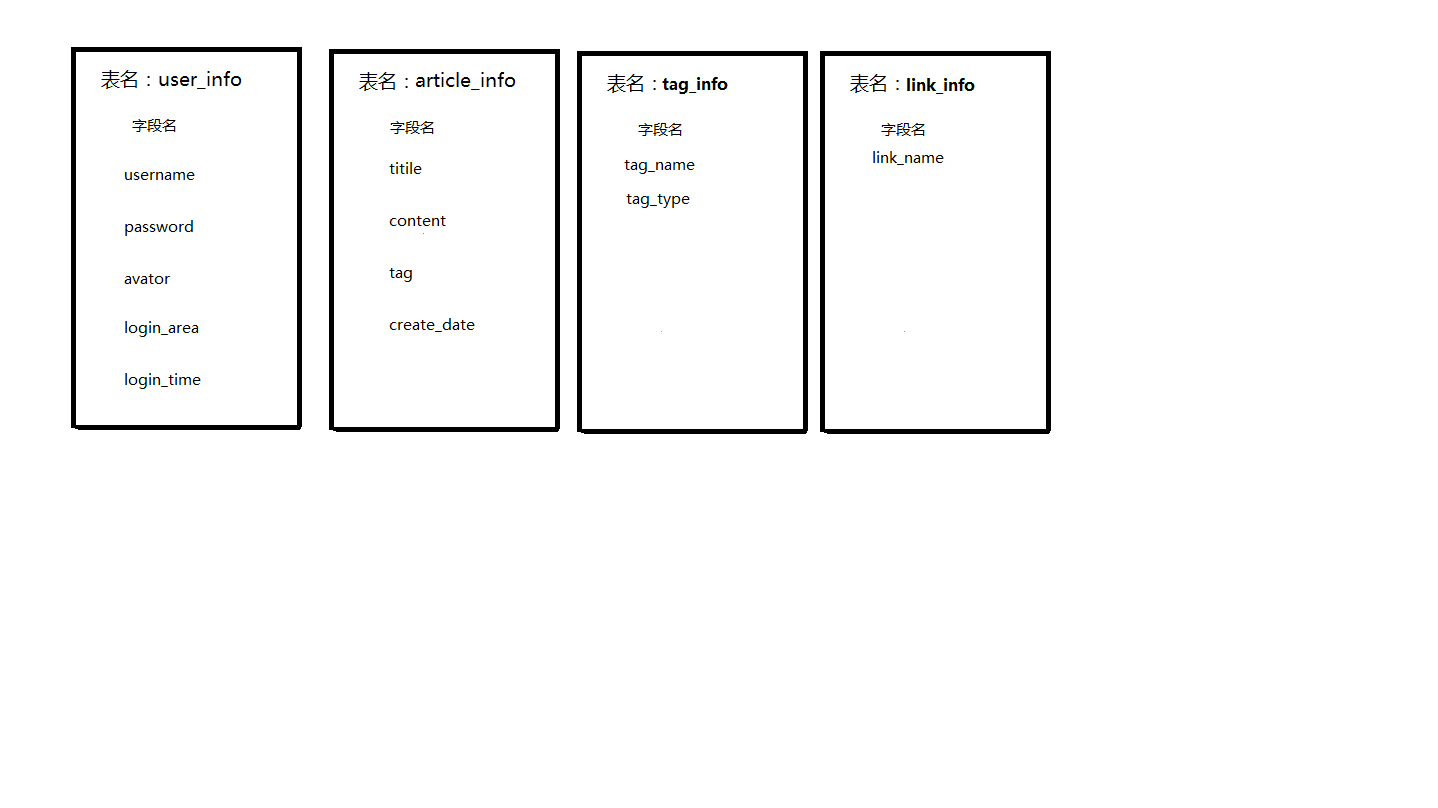
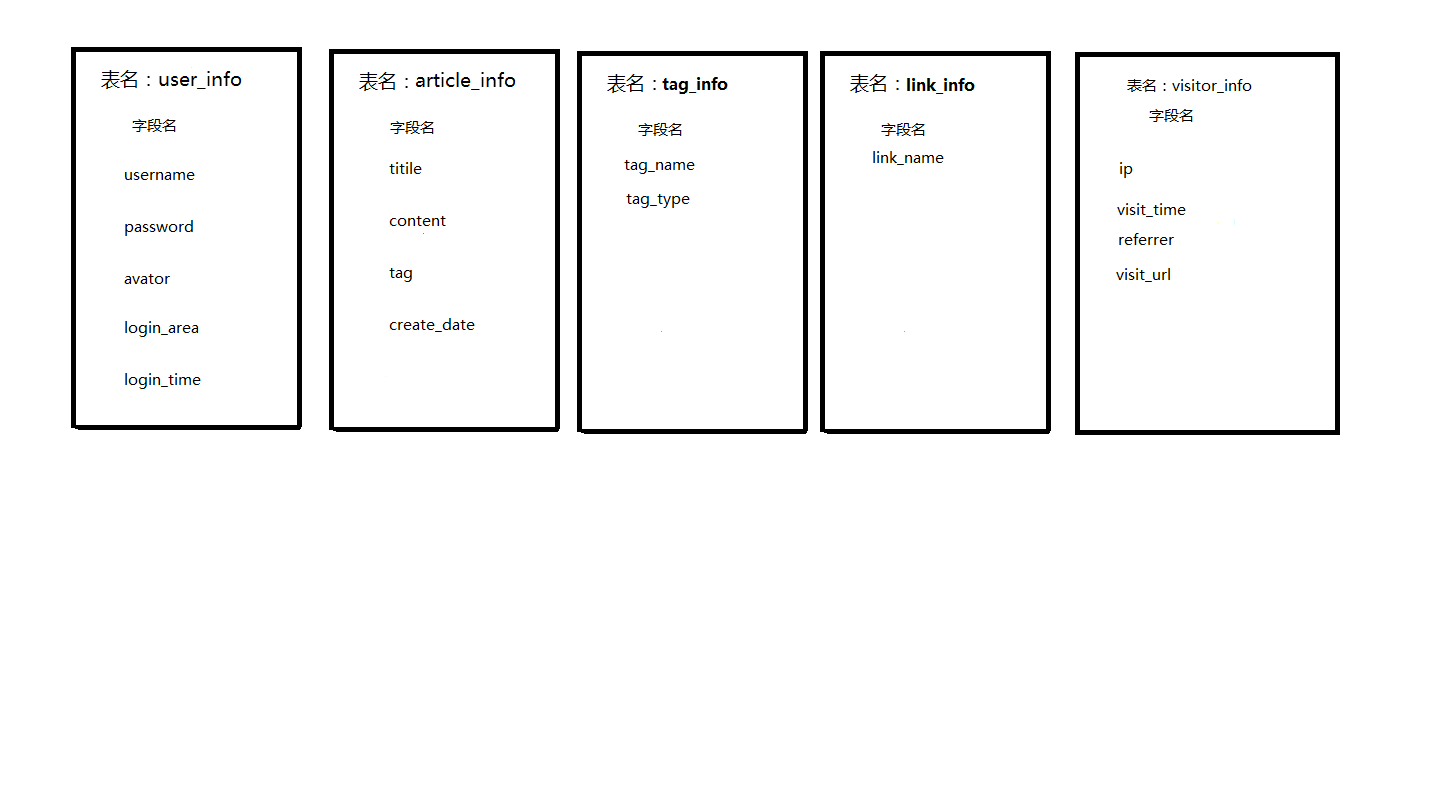
mongoose

Changed region(s): [[0.7344, 0.0619, 0.9485, 0.5569]]

diff --git a/server/index.js b/server/index.js
@@ -7,17 +7,13 @@ const session = require('koa-session');
 const app = new Koa()
 const host = process.env.HOST || '127.0.0.1'
 const port = process.env.PORT || 3000
-const admin=require('./model/admin/admin');
-const passport=require('koa-passport');
+require('./models')
+const index=require('./model/admin/index');
 //session
 app.keys = ['some secret hurr'];
 app.use(session({}, app));
 //body-parseer
 app.use(bodyParser());
-//authentication
-require('./auth')
-app.use(passport.initialize())
-app.use(passport.session())
 // Import and Set Nuxt.js options
 let config = require('../nuxt.config.js')
 config.dev = !(app.env === 'production')
@@ -31,7 +27,7 @@ async function start() {
     const builder = new Builder(nuxt)
     await builder.build()
   }
-  router.use('/admin',admin);
+  router.use('/admin/index',index);
   app.use(router.routes()).use(router.allowedMethods());
   app.use(ctx => {
     ctx.status = 200 // koa defaults to 404 when it sees that status is unset

diff --git a/server/model/admin/admin.js b/server/model/admin/admin.js
@@ -1,17 +1,3 @@
 const router=require('koa-router')()
 const db=require('../../db')
-const passport=require('koa-passport')
-/*
-* 登录
-*/
-router.post('/login',async ctx=>{
-    return passport.authenticate('local', function(err, user, info, status) {
-        if (user === false) {
-          ctx.body = { success: false,msg:info };
-        } else {
-          ctx.body = { success: true,user};
-          return ctx.login(user)
-        }
-      })(ctx)
-});
 module.exports=router.routes();

diff --git a/server/model/admin/index.js b/server/model/admin/index.js
@@ -1,1 +1,16 @@
 //首页
+const router=require('koa-router')()
+const db=require('../../db')
+/*
+*访客数据
+*/
+router.post('/visitorData',async ctx=>{
+    
+});
+/*
+* 登录
+*/
+router.post('/login',                                                                                                                                                                                     async ctx=>{
+   
+});
+module.exports=router.routes();

diff --git a/pages/front/login.vue b/pages/front/login.vue
@@ -79,7 +79,7 @@ export default {
       this.$refs[name].validate(valid => {
         if (valid) {
           this.formInline.password=md5(this.formInline.password);
-          this.$axios.post('/admin/login',this.formInline).then(res=>{
+          this.$axios.post('/admin/index/login',this.formInline).then(res=>{
            let {data}=res;
             if(data.success){
               this.$Message.success('登录成功');

diff --git a/pages/front/index.vue b/pages/front/index.vue
@@ -163,6 +163,7 @@ export default {
     }
   },
   mounted() {
+    this.getData();
     this.getVisitNumber();
     this.getArticleNumber();
   },
@@ -263,6 +264,11 @@ export default {
       }
       var myChart = this.$echarts.init(echart)
       myChart.setOption(option)
+    },
+    getData(){
+        this.$axios.post('/admin/index/visitorData').then(res=>{
+            console.log(res);
+        });
     }
   }
 }

diff --git a/server/models/user.js b/server/models/user.js
@@ -1,0 +1,22 @@
+const mongoose=require('mongoose')
+const Schema=mongoose.Schema
+let user=new Schema({
+    username:{
+        type:String
+    },
+    password:{
+        type:String
+    },
+    avator:{
+        type:String,
+        default:'avator.jpg'
+    },
+    login_area:{
+        type:String
+    },
+    login_time:{
+        type:Date,
+        default:Date.now
+    }
+})
+mongoose.model('User',user);

diff --git a/server/models/index.js b/server/models/index.js
@@ -1,0 +1,10 @@
+const mongoose=require('mongoose')
+const config=require('../config')
+require('./user')
+require('./visitor')
+mongoose.connect(`mongodb://${config.mongodb.host}:${config.mongodb.prot}/${config.mongodb.database}`,{useNewUrlParser: true});
+var db = mongoose.connection; 
+db.on('error', console.error.bind(console, 'connection error:'));
+db.once('open',_=>{
+ console.log('we are connected!')
+});

diff --git a/server/models/visitor.js b/server/models/visitor.js
@@ -1,0 +1,17 @@
+const mongoose=require('mongoose')
+const Schema=mongoose.Schema;
+const visitor=new Schema({
+    ip:{
+        type:String
+    },
+    referrer:{
+        type:String
+    },
+    visited_url:{
+        type:String
+    },
+    visited_time:{
+        type:String
+    }
+})
+mongoose.model('Visitor',visitor);

diff --git a/server/config/dev.config.js b/server/config/dev.config.js
@@ -1,0 +1,13 @@
+module.exports={
+    user:{
+        username:'Bonnie',
+        password:'1',
+        login_time:new Date(),
+        login_area:'四川成都'
+    },
+    mongodb:{
+        host:'localhost',
+        prot:'27017',
+        database:'cms'
+    }
+}

diff --git a/server/config/pro.config.js b/server/config/pro.config.js
@@ -1,0 +1,13 @@
+module.exports={
+    user:{
+        username:'Bonnie',
+        password:'1',
+        login_time:new Date(),
+        login_area:'四川成都'
+    },
+    mongodb:{
+        host:'127.0.0.1',
+        prot:'27017',
+        database:'cms'
+    }
+}

diff --git a/server/config/index.js b/server/config/index.js
@@ -1,0 +1,3 @@
+const dev=require('./dev.config')
+const pro=require('./pro.config')
+module.exports=process.env.NODE_ENV=="development"?dev:pro;

diff --git a/README.md b/README.md
@@ -1,7 +1,5 @@
-# mnStystem
- 过去一直想建立个人博客，由于种种原因（时间、懒惰...）,在2019年的年初定下一个目标，今年必须把博客建起。该项目是后台管理系统，是我利用业余时间完成的，因为抱着学习新知识的态度，采用的都是自己之前项目没有接触过得技术和框架，我处于一种边学边做的过程。由于工作中接触的都是hmtl5开发,接触pc还是较少，所以有什么不对之处，欢迎大家指正。
 ## 使用技术
-> nuxt+iview+vue-router+koa+nodejs+mongodb+echart+vue-quill-editor+
+> nuxt+iview+vue-router+koa+nodejs+mongoose+echart+vue-quill-editor
 ## 目录结构
 ```
 ├─.nuxt
